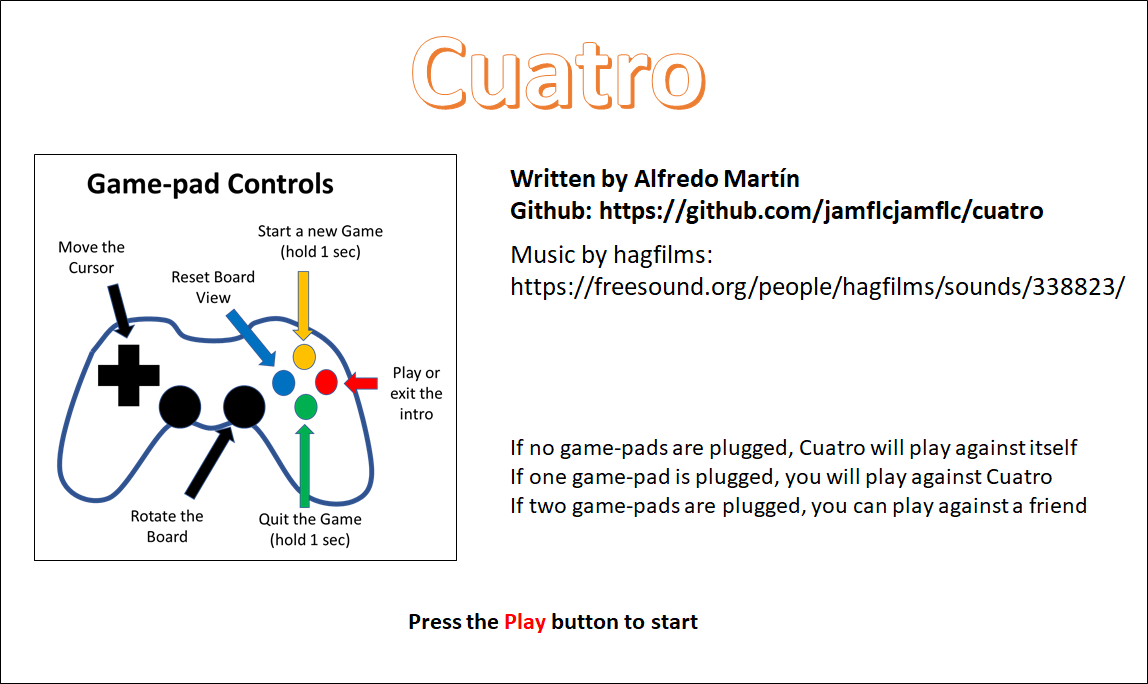
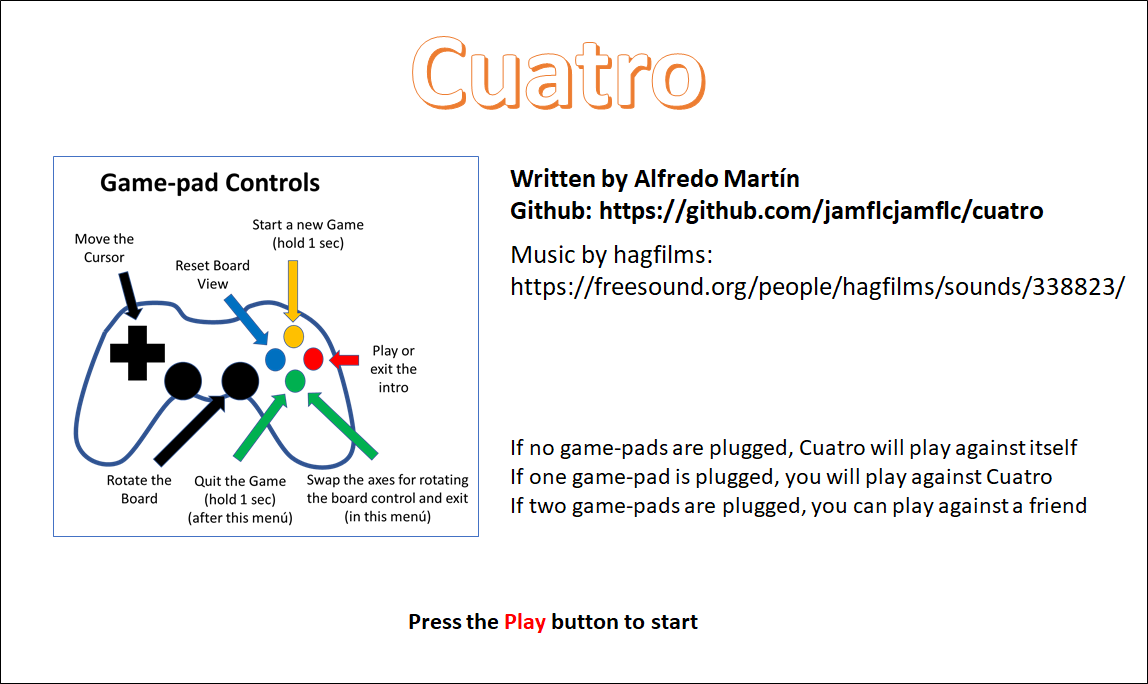
moving to python 3

Changed region(s): [[0.0305, 0.2456, 0.4268, 0.7982]]

diff --git a/classes/front_cover.py b/classes/front_cover.py
@@ -5,6 +5,7 @@
 
 import pygame
 import time
+import os
 
 version = 'front_cover.v.1.0.0'
 
@@ -43,7 +44,7 @@ class Cover:
         else:
             self.music = None
 
-    def run_cover(self, screen, joystics, clock):
+    def run_cover(self, screen, joysticks, clock):
         if self.music is not None:
             self.music.play(loops=-1)
         keep_menu = True
@@ -54,11 +55,27 @@ class Cover:
                     keep_menu = False
                     pygame.quit()
                     quit()
-            if len(joystics) > 0:
-                keep_menu = not any([item.get_button(1) for item in joystics])
+            if len(joysticks) > 0:
+                keep_menu = not any([item.get_button(1) for item in joysticks])
             else:
                 if time.time() - start_time > 3:
                     keep_menu = False
+            if len(joysticks) > 0:
+                change_config = any([item.get_button(0) for item in joysticks])
+                if change_config:
+                    with open(os.path.join('resources', 'os_mask.ini'), 'r') as f:
+                        lines = f.readlines()
+                        line = lines[0].rstrip('\r\n')
+                        if line.upper() == 'TRUE':
+                            line = 'false\n'
+                        else:
+                            line = 'true\n'
+                    with open(os.path.join('resources', 'os_mask.ini'), 'w') as f:
+                        f.write(line)
+                    print('os_mask.ini changed to ' + line)
+                    keep_menu = False
+                    pygame.quit()
+                    quit()
             screen.fill((255, 255, 255))
             if self.image is not None:
                 rect = screen.get_rect()

diff --git a/classes/controller.py b/classes/controller.py
@@ -5,6 +5,7 @@
 
 import time
 import numpy as np
+import os
 
 version = 'controller.v.1.0.0'
 
@@ -50,6 +51,15 @@ class Controller:
         self.action = 'no_action'
         self.reset_time = None
         self.time_limit = time_limit
+        with open(os.path.join('resources', 'os_mask.ini'), 'r') as f:
+            lines = f.readlines()
+            self.invert_axes = lines[0].rstrip('\r\n').upper() == 'TRUE'
+        if self.invert_axes:
+            self.x_axis = 3
+            self.y_axis = 2
+        else:
+            self.x_axis = 2
+            self.y_axis = 3
 
     def get_action(self, joy):
         self.buttons = (joy.get_button(0), joy.get_button(1), joy.get_button(2), joy.get_button(3))
@@ -98,15 +108,19 @@ class Controller:
         self.old_cursor_shift = self.cursor_shift
 
     def get_angles(self, joy):
-        angle_a = joy.get_axis(4)
-        angle_b = joy.get_axis(3)
+        angle_a = joy.get_axis(self.x_axis)
+        angle_b = joy.get_axis(self.y_axis)
         if angle_a > 0.5:
+            print(angle_a)
             self.a = max(-self.max_alpha, self.a - 0.05)
         elif angle_a < -0.5:
+            print(angle_a)
             self.a = min(self.max_alpha, self.a + 0.05)
         if angle_b > 0.5:
+            print(angle_b)
             self.b = max(-self.max_beta / 2, self.b - 0.05)
         elif angle_b < -0.5:
+            print(angle_b)
             self.b = min(0, self.b + 0.05)
 
     def get_status(self, joy):

diff --git a/cuatro.py b/cuatro.py
@@ -29,7 +29,7 @@ def parse_args():
     parser.add_argument('--logo_image', type=str, default='logo.png')
     parser.add_argument('--cover_music', type=str, default='main_music.wav')
     parser.add_argument('--game_music', type=str, default='main_music.wav')
-    parser.add_argument('--play_sound', type=str, default='play.wav')
+    parser.add_argument('--play_sound', type=str, default='click.wav')
     parser.add_argument('--ilegal_sound', type=str, default='error.wav')
     parser.add_argument('--win_sound', type=str, default='win.wav')
     parser.add_argument('--background_color', type=tuple, default=(255, 255, 255))
@@ -133,10 +133,9 @@ if __name__ == '__main__':
     for joystick in joysticks:
         joystick.init()
     # music and sounds
-    print os.path.abspath(os.path.join('.', 'sounds', args.game_music))
-    music = pygame.mixer.Sound(os.path.join('.', 'sounds', args.game_music))
+    music = pygame.mixer.Sound(os.path.join('sounds', args.game_music))
     music.set_volume(0.3)
-    play_sound = pygame.mixer.Sound(os.path.join('.', 'sounds', args.play_sound))
+    play_sound = pygame.mixer.Sound(os.path.join('sounds', args.play_sound))
     play_sound.set_volume(0.1)
     ilegal_sound = pygame.mixer.Sound(os.path.join('.', 'sounds', args.ilegal_sound))
     ilegal_sound.set_volume(0.1)

diff --git a/classes/get2dcoords.py b/classes/get2dcoords.py
@@ -4,7 +4,7 @@
 # Alfredo Martin 2021
 
 import numpy as np
-from rotate import Rotate
+from classes.rotate import Rotate
 
 version = 'get2dcoords.v.1.0.0'
 

diff --git a/classes/cursor.py b/classes/cursor.py
@@ -6,7 +6,7 @@
 version = 'cursor.v.1.0.0'
 
 import numpy as np
-from rotate import Rotate
+from classes.rotate import Rotate
 
 
 class Cursor:

diff --git a/classes/board.py b/classes/board.py
@@ -6,7 +6,7 @@
 version = 'board.v.1.0.0'
 
 import numpy as np
-from rotate import Rotate
+from classes.rotate import Rotate
 
 
 class Board:

diff --git a/classes/rotate.py b/classes/rotate.py
@@ -33,4 +33,4 @@ class Rotate:
 
 
 if __name__ == '__main__':
-    print version
+    print(version)

diff --git a/README.md b/README.md
@@ -4,7 +4,7 @@ type: "python cuatro.py" in the command line to launch the script. The intro of 
 Cuatro can handle different game sizes (how many bricks hold the game per dimension) and how many bricks in a line that consitutues a win. The defaults are a size of 5 and a win of four but they can be modified passing the appropriate arguments. For example typye: "python cuatro.py --game_size 6 --game_win 5"
 The visualization of the game can be changed by passing specific arguments such as the camera position, how far is the board from the camera or where is the light. Also the size of the window game can be changed through arguments (the default is to adjust to the screen resolution). The available arguments can be accessed by typing: "python cuatro.py -h" althoug I have not commented them yet to build a real help.
 You will need at least one game-pad plugged to play (I have not coded keybord control). If no game-pad is plugged you will just watch Cuatro play against itself.
-The project has been coded in python 2.7 but it should work in python 3 as well, and both in linux and windows.
+The project has been coded in python 3.9. I have found problems running it in my raspberry pi because the axes of the stirring handle that rotates the board are swapped so I coded a button at the initial intro that allows to swap the axes if they are not the correct ones.
 Dependencies are pygame and numpy.
 Watch this videos in youtube for a demo: 
 https://youtu.be/uukpv5mSabM
